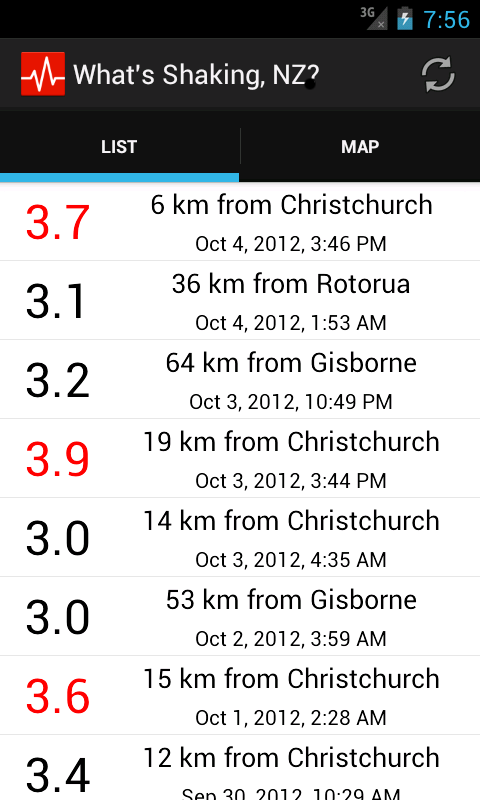
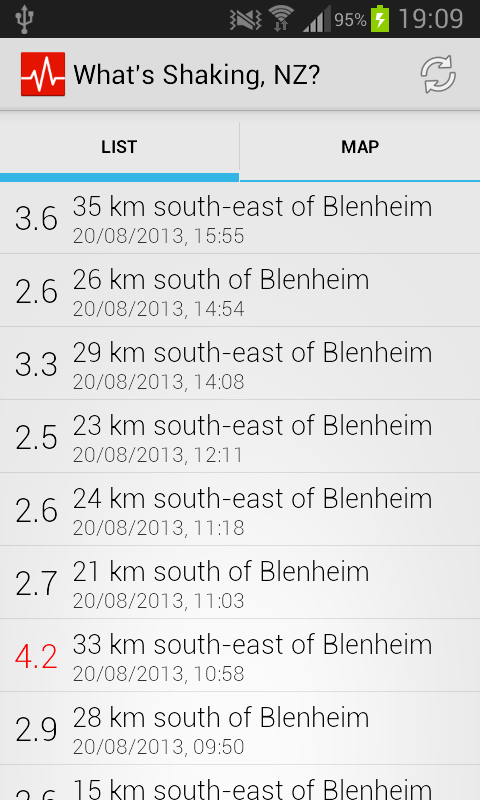
Site updated at 2013-09-10 08:27:14 UTC

diff --git a/blog/2013/09/10/android-ui-refresh-and-tablet-compatibility/index.html b/blog/2013/09/10/android-ui-refresh-and-tablet-compatibility/index.html
@@ -5,11 +5,11 @@
 <!--[if (gt IE 8)|(gt IEMobile 7)|!(IEMobile)|!(IE)]><!--><html class="no-js" lang="en"><!--<![endif]-->
 <head>
   <meta charset="utf-8">
-  <title>Windows Phone 8 Initial Release - What's Shaking, NZ?</title>
+  <title>Android UI Refresh and Tablet Compatibility - What's Shaking, NZ?</title>
   <meta name="author" content="Adam Speakman">
 
   
-  <meta name="description" content="Today the Windows Phone 8 version of What&#8217;s Shaking, NZ? was released - get it on the Windows Phone App Store now. If you&#8217;ve been using &hellip;">
+  <meta name="description" content="If you haven&#8217;t seen it already, What&#8217;s Shaking, NZ? version 1.2 for Android released recently. You can get it from the Play Store right &hellip;">
   
 
   <!-- http://t.co/dKP3o1e -->
@@ -18,7 +18,7 @@
   <meta name="viewport" content="width=device-width, initial-scale=1">
 
   
-  <link rel="canonical" href="http://adamsp.github.com/wsnz-website/blog/2012/12/18/windows-phone-8-initial-release/">
+  <link rel="canonical" href="http://adamsp.github.com/wsnz-website/blog/2013/09/10/android-ui-refresh-and-tablet-compatibility/">
   <link href="/favicon.png" rel="icon">
   <link href="/stylesheets/screen.css" media="screen, projection" rel="stylesheet" type="text/css">
   <script src="/javascripts/modernizr-2.0.js"></script>
@@ -81,7 +81,7 @@
   
   <header>
     
-      <h1 class="entry-title">Windows Phone 8 Initial Release</h1>
+      <h1 class="entry-title">Android UI Refresh and Tablet Compatibility</h1>
     
     
       <p class="meta">
@@ -97,31 +97,35 @@
   
 
 
-<time datetime="2012-12-18T16:09:00+13:00" pubdate data-updated="true">Dec 18<span>th</span>, 2012</time>
+<time datetime="2013-09-10T19:49:00+12:00" pubdate data-updated="true">Sep 10<span>th</span>, 2013</time>
         
       </p>
     
   </header>
 
 
-<div class="entry-content"><p>Today the Windows Phone 8 version of What&#8217;s Shaking, NZ? was released - get it on the <a href="http://www.windowsphone.com/en-nz/store/app/what-shaking-nz/8c5077db-6a9a-4c29-b095-42fea91874d9">Windows Phone App Store now</a>. If you&#8217;ve been using the Windows Phone 7 version on your Windows Phone 8 handset be sure to upgrade, as this new version is much faster, taking advantage of a number of features only available on Windows Phone 8.</p>
+<div class="entry-content"><p>If you haven&#8217;t seen it already, What&#8217;s Shaking, NZ? version 1.2 for Android released recently. You can get it from the <a href="https://play.google.com/store/apps/details?id=speakman.whatsshakingnz">Play Store</a> right now.</p>
+
+<p>This version features a UI refresh, some bug fixes, device rotation support and a tablet layout!</p>
 
 <!-- more -->
 
 
-<p>In the recent <a href="../../14/windows-phone-7-update-1-dot-3/">post</a> detailing the recent Windows Phone 7 update, I talked about the new features added in that update - quake status (reviewed/automatically reported), quake location and the option to show <em>all</em> quakes. These features are of course also present in this new Windows Phone 8 version.</p>
+<p>Here is a full list of new features and bug fixes:</p>
 
-<p>On top of these new features though (which you can read about in detail in the post linked above, or on the <a href="../../../../../windows-phone/">Windows Phone</a> page) are of course the WP8-specific features.</p>
+<ul>
+<li>Added tablet support - supporting a two-pane layout, rather than the tabbed layout which is much better suited to smaller devices, such as phones.</li>
+<li>Added landscape support - no longer forced to portrait on all devices! You can rotate to your hearts content.</li>
+<li>Added a message explaining what an earthquakes &#8216;status&#8217; means - simply tap on the status to find out!</li>
+<li>Added an option to only be notified about &#8216;reviewed&#8217; quakes (turned on by default). This fixes the bug where notifications were often showing up for &#8216;ghost quakes&#8217; - quakes that the Geonet sensors detected, but didn&#8217;t really happen, or were much smaller than initially detected as.</li>
+<li>Updated UI with Roboto font and better spacing for list items.</li>
+<li>Updated earthquake map markers to have a gradual colour change, rather than the red &amp; blue from before.</li>
+<li>Upgraded to Google Maps v2. This requires Android 2.2 (FroYo) and up - if you&#8217;re running Android 2.1, you can still download the old version of What&#8217;s Shaking. This also requires up-to-date Google Play Services - mostly, this is updated automatically for you and you shouldn&#8217;t have to worry about this!</li>
+<li>Fixed a bug where notifications would sometimes show up even when disabled.</li>
+</ul>
 
-<p>The first time you start What&#8217;s Shaking, NZ? you may notice that the app starts up faster - it no longer has a startup screen. Microsoft have now made these optional, which is useful for apps (such as What&#8217;s Shaking, NZ?) that don&#8217;t have a lot to do during startup. The list view should now be a little faster as well, as it uses a new, faster control. This wasn&#8217;t exactly a problem previously, but every bit of performance is important.</p>
 
-<p>I&#8217;ve also enabled what&#8217;s called &#8220;fast app resume&#8221; - meaning that if the app is running already, you can now get back into it quickly by tapping the tile on the home screen. Previously this would terminate the old instance of the app and create a new one, which took quite some time. Now it simply brings the existing one to the foreground (which you could do previously by holding down the Back key and selecting the app from those shown). This makes for a much nicer experience when switching between applications, as the phone is much more responsive and apps appear to load a lot faster.</p>
-
-<p>One of the biggest features Windows Phone 8 has over WP7 was multiple live tile sizes - these are included in this initial release. The medium tile shows you the same information as before (number of quakes in the last 24 hours, with magnitude, depth and time of the latest quake on the back of the tile), while the large tile now also shows you the location of the latest quake.</p>
-
-<p>Those features (along with those mentioned in the <a href="../../14/windows-phone-7-update-1-dot-3/">previous post</a>) are the most noticeable ones. In addition, there have been quite a few changes behind the scenes - bug fixes, changes, improvements, and preparations for future features. You can have a look at these on <a href="https://github.com/adamsp/wsnz-windowsphone/commits/master">Github</a> if you&#8217;re interested.</p>
-
-<p>Feel free to <a href="http://twitter.com/WhatsShakingNZ">tweet me</a> if you have any comments or suggestions, or you can email me direct from the app.</p>
+<p>Check out the <a href="../../../../../android/">Android</a> page for screenshots, or go <a href="https://play.google.com/store/apps/details?id=speakman.whatsshakingnz">download now</a>!</p>
 </div>
 
 
@@ -144,21 +148,15 @@
   
 
 
-<time datetime="2012-12-18T16:09:00+13:00" pubdate data-updated="true">Dec 18<span>th</span>, 2012</time>
+<time datetime="2013-09-10T19:49:00+12:00" pubdate data-updated="true">Sep 10<span>th</span>, 2013</time>
       
-
-<span class="categories">
-  
-    <a class='category' href='/blog/categories/news/'>news</a>, <a class='category' href='/blog/categories/windows-phone/'>windows-phone</a>, <a class='category' href='/blog/categories/windows-phone-8/'>windows-phone-8</a>
-  
-</span>
 
 
     </p>
     
       <div class="sharing">
   
-  <a href="http://twitter.com/share" class="twitter-share-button" data-url="http://www.whatsshaking.co.nz/blog/2012/12/18/windows-phone-8-initial-release/" data-via="WhatsShakingNZ" data-counturl="http://www.whatsshaking.co.nz/blog/2012/12/18/windows-phone-8-initial-release/" >Tweet</a>
+  <a href="http://twitter.com/share" class="twitter-share-button" data-url="http://www.whatsshaking.co.nz/blog/2013/09/10/android-ui-refresh-and-tablet-compatibility/" data-via="WhatsShakingNZ" data-counturl="http://www.whatsshaking.co.nz/blog/2013/09/10/android-ui-refresh-and-tablet-compatibility/" >Tweet</a>
   
   
   
@@ -167,10 +165,8 @@
     
     <p class="meta">
       
-        <a class="basic-alignment left" href="/blog/2012/12/14/windows-phone-7-update-1-dot-3/" title="Previous Post: Windows Phone 7 update 1.3">&laquo; Windows Phone 7 update 1.3</a>
+        <a class="basic-alignment left" href="/blog/2012/12/18/windows-phone-8-initial-release/" title="Previous Post: Windows Phone 8 Initial Release">&laquo; Windows Phone 8 Initial Release</a>
       
-      
-        <a class="basic-alignment right" href="/blog/2013/09/10/android-ui-refresh-and-tablet-compatibility/" title="Next Post: Android UI Refresh and Tablet Compatibility">Android UI Refresh and Tablet Compatibility &raquo;</a>
       
     </p>
   </footer>

diff --git a/android/index.html b/android/index.html
@@ -86,7 +86,7 @@
   
   <p>The Android version of What&#8217;s Shaking, NZ? is now available on the <a href="https://play.google.com/store/apps/details?id=speakman.whatsshakingnz">Google Play Store</a>.</p>
 
-<p>Utilising the Geonet Rapid data feed, What&#8217;s Shaking, NZ? brings up to date quake information for New Zealand straight to your Android phone. Offering the ability to view up to the latest 30 quakes from around New Zealand, you can stay aware of what&#8217;s going on around the country.</p>
+<p>Utilising the Geonet Rapid data feed, What&#8217;s Shaking, NZ? brings up to date quake information for New Zealand straight to your Android phone or tablet. Offering the ability to view up to the latest 30 quakes from around New Zealand, you can stay aware of what&#8217;s going on around the country.</p>
 
 <ul>
 <li>Features both a list and map view, providing an overview of recent earthquakes from around the country.</li>
@@ -98,10 +98,11 @@
 </ul>
 
 
-<p><a href="screens/ss_01.PNG"><img class="bottom" src="screens/ss_01.PNG" width="168" height="280" title="What's Shaking, NZ? List View" ></a>
-<a href="screens/ss_02.PNG"><img class="bottom" src="screens/ss_02.PNG" width="168" height="280" title="What's Shaking, NZ? Map View" ></a>
-<a href="screens/ss_03.PNG"><img class="bottom" src="screens/ss_03.PNG" width="168" height="280" title="What's Shaking, NZ? Quake View" ></a>
-<a href="screens/ss_04.PNG"><img class="bottom" src="screens/ss_04.PNG" width="168" height="280" title="What's Shaking, NZ? Settings" ></a></p>
+<p><a href="screens/ss_01.PNG"><img src="screens/ss_01.PNG" width="168" height="280" title="What's Shaking, NZ? List View" ></a>
+<a href="screens/ss_02.PNG"><img src="screens/ss_02.PNG" width="168" height="280" title="What's Shaking, NZ? Map View" ></a>
+<a href="screens/ss_03.PNG"><img src="screens/ss_03.PNG" width="168" height="280" title="What's Shaking, NZ? Map Zoomed" ></a>
+<a href="screens/ss_04.PNG"><img src="screens/ss_04.PNG" width="168" height="280" title="What's Shaking, NZ? Quake View" ></a>
+<a href="screens/ss_02_tablet.png"><img class="bottom" src="screens/ss_02_tablet.png" width="672" height="420" title="What's Shaking, NZ? Tablet Landscape" ></a></p>
 
   
     <footer>

diff --git a/index.html b/index.html
@@ -9,7 +9,7 @@
   <meta name="author" content="Adam Speakman">
 
   
-  <meta name="description" content="Today the Windows Phone 8 version of What&#8217;s Shaking, NZ? was released - get it on the Windows Phone App Store now. If you&#8217;ve been using &hellip;">
+  <meta name="description" content="If you haven&#8217;t seen it already, What&#8217;s Shaking, NZ? version 1.2 for Android released recently. You can get it from the Play Store right &hellip;">
   
 
   <!-- http://t.co/dKP3o1e -->
@@ -78,6 +78,49 @@
     <div id="content">
       <div class="blog-index">
   
+  
+  
+    <article>
+      
+  <header>
+    
+      <h1 class="entry-title"><a href="/blog/2013/09/10/android-ui-refresh-and-tablet-compatibility/">Android UI Refresh and Tablet Compatibility</a></h1>
+    
+    
+      <p class="meta">
+        
+
+
+
+
+
+
+
+
+  
+
+
+<time datetime="2013-09-10T19:49:00+12:00" pubdate data-updated="true">Sep 10<span>th</span>, 2013</time>
+        
+      </p>
+    
+  </header>
+
+
+  <div class="entry-content"><p>If you haven&#8217;t seen it already, What&#8217;s Shaking, NZ? version 1.2 for Android released recently. You can get it from the <a href="https://play.google.com/store/apps/details?id=speakman.whatsshakingnz">Play Store</a> right now.</p>
+
+<p>This version features a UI refresh, some bug fixes, device rotation support and a tablet layout!</p>
+
+</div>
+  
+  
+    <footer>
+      <a rel="full-article" href="/blog/2013/09/10/android-ui-refresh-and-tablet-compatibility/">Read on &rarr;</a>
+    </footer>
+  
+
+
+    </article>
   
   
     <article>
@@ -260,6 +303,10 @@
     <section>
   <h1>Recent Posts</h1>
   <ul id="recent_posts">
+    
+      <li class="post">
+        <a href="/blog/2013/09/10/android-ui-refresh-and-tablet-compatibility/">Android UI Refresh and Tablet Compatibility</a>
+      </li>
     
       <li class="post">
         <a href="/blog/2012/12/18/windows-phone-8-initial-release/">Windows Phone 8 Initial Release</a>

diff --git a/blog/archives/index.html b/blog/archives/index.html
@@ -9,9 +9,9 @@
   <meta name="author" content="Adam Speakman">
 
   
-  <meta name="description" content="Blog Archive 2012 Windows Phone 8 Initial Release
-Dec 18 2012 posted in news, windows-phone, windows-phone-8 Windows Phone 7 update 1.3
-Dec 14 2012 &hellip;">
+  <meta name="description" content="Blog Archive 2013 Android UI Refresh and Tablet Compatibility
+Sep 10 2013 2012 Windows Phone 8 Initial Release
+Dec 18 2012 posted in news, windows- &hellip;">
   
 
   <!-- http://t.co/dKP3o1e -->
@@ -91,6 +91,19 @@ Dec 14 2012 &hellip;">
 
 
   
+  <h2>2013</h2>
+
+<article>
+  
+<h1><a href="/blog/2013/09/10/android-ui-refresh-and-tablet-compatibility/">Android UI Refresh and Tablet Compatibility</a></h1>
+<time datetime="2013-09-10T19:49:00+12:00" pubdate><span class='month'>Sep</span> <span class='day'>10</span> <span class='year'>2013</span></time>
+
+
+</article>
+
+
+
+  
   <h2>2012</h2>
 
 <article>
@@ -159,6 +172,10 @@ Dec 14 2012 &hellip;">
     <section>
   <h1>Recent Posts</h1>
   <ul id="recent_posts">
+    
+      <li class="post">
+        <a href="/blog/2013/09/10/android-ui-refresh-and-tablet-compatibility/">Android UI Refresh and Tablet Compatibility</a>
+      </li>
     
       <li class="post">
         <a href="/blog/2012/12/18/windows-phone-8-initial-release/">Windows Phone 8 Initial Release</a>

diff --git a/blog/2012/08/22/welcome/index.html b/blog/2012/08/22/welcome/index.html
@@ -178,6 +178,10 @@
   <ul id="recent_posts">
     
       <li class="post">
+        <a href="/blog/2013/09/10/android-ui-refresh-and-tablet-compatibility/">Android UI Refresh and Tablet Compatibility</a>
+      </li>
+    
+      <li class="post">
         <a href="/blog/2012/12/18/windows-phone-8-initial-release/">Windows Phone 8 Initial Release</a>
       </li>
     

diff --git a/blog/2012/10/06/android-version-now-available/index.html b/blog/2012/10/06/android-version-now-available/index.html
@@ -172,6 +172,10 @@
   <ul id="recent_posts">
     
       <li class="post">
+        <a href="/blog/2013/09/10/android-ui-refresh-and-tablet-compatibility/">Android UI Refresh and Tablet Compatibility</a>
+      </li>
+    
+      <li class="post">
         <a href="/blog/2012/12/18/windows-phone-8-initial-release/">Windows Phone 8 Initial Release</a>
       </li>
     

diff --git a/blog/2012/12/14/windows-phone-7-update-1-dot-3/index.html b/blog/2012/12/14/windows-phone-7-update-1-dot-3/index.html
@@ -183,6 +183,10 @@
   <ul id="recent_posts">
     
       <li class="post">
+        <a href="/blog/2013/09/10/android-ui-refresh-and-tablet-compatibility/">Android UI Refresh and Tablet Compatibility</a>
+      </li>
+    
+      <li class="post">
         <a href="/blog/2012/12/18/windows-phone-8-initial-release/">Windows Phone 8 Initial Release</a>
       </li>
     

diff --git a/blog/categories/android/index.html b/blog/categories/android/index.html
@@ -117,6 +117,10 @@
   <ul id="recent_posts">
     
       <li class="post">
+        <a href="/blog/2013/09/10/android-ui-refresh-and-tablet-compatibility/">Android UI Refresh and Tablet Compatibility</a>
+      </li>
+    
+      <li class="post">
         <a href="/blog/2012/12/18/windows-phone-8-initial-release/">Windows Phone 8 Initial Release</a>
       </li>
     

diff --git a/blog/categories/news/index.html b/blog/categories/news/index.html
@@ -159,6 +159,10 @@
   <ul id="recent_posts">
     
       <li class="post">
+        <a href="/blog/2013/09/10/android-ui-refresh-and-tablet-compatibility/">Android UI Refresh and Tablet Compatibility</a>
+      </li>
+    
+      <li class="post">
         <a href="/blog/2012/12/18/windows-phone-8-initial-release/">Windows Phone 8 Initial Release</a>
       </li>
     

diff --git a/blog/categories/windows-phone-7/index.html b/blog/categories/windows-phone-7/index.html
@@ -117,6 +117,10 @@
   <ul id="recent_posts">
     
       <li class="post">
+        <a href="/blog/2013/09/10/android-ui-refresh-and-tablet-compatibility/">Android UI Refresh and Tablet Compatibility</a>
+      </li>
+    
+      <li class="post">
         <a href="/blog/2012/12/18/windows-phone-8-initial-release/">Windows Phone 8 Initial Release</a>
       </li>
     

diff --git a/blog/categories/windows-phone-8/index.html b/blog/categories/windows-phone-8/index.html
@@ -117,6 +117,10 @@
   <ul id="recent_posts">
     
       <li class="post">
+        <a href="/blog/2013/09/10/android-ui-refresh-and-tablet-compatibility/">Android UI Refresh and Tablet Compatibility</a>
+      </li>
+    
+      <li class="post">
         <a href="/blog/2012/12/18/windows-phone-8-initial-release/">Windows Phone 8 Initial Release</a>
       </li>
     

diff --git a/blog/categories/windows-phone/index.html b/blog/categories/windows-phone/index.html
@@ -131,6 +131,10 @@
   <ul id="recent_posts">
     
       <li class="post">
+        <a href="/blog/2013/09/10/android-ui-refresh-and-tablet-compatibility/">Android UI Refresh and Tablet Compatibility</a>
+      </li>
+    
+      <li class="post">
         <a href="/blog/2012/12/18/windows-phone-8-initial-release/">Windows Phone 8 Initial Release</a>
       </li>
     
